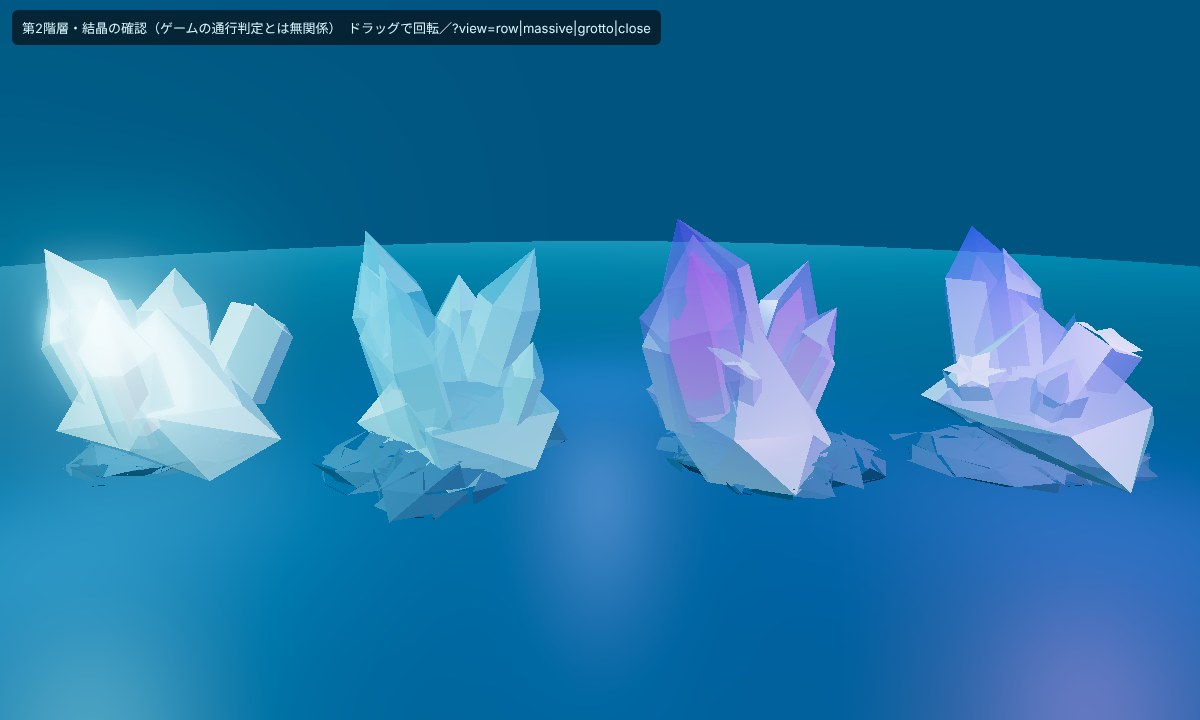
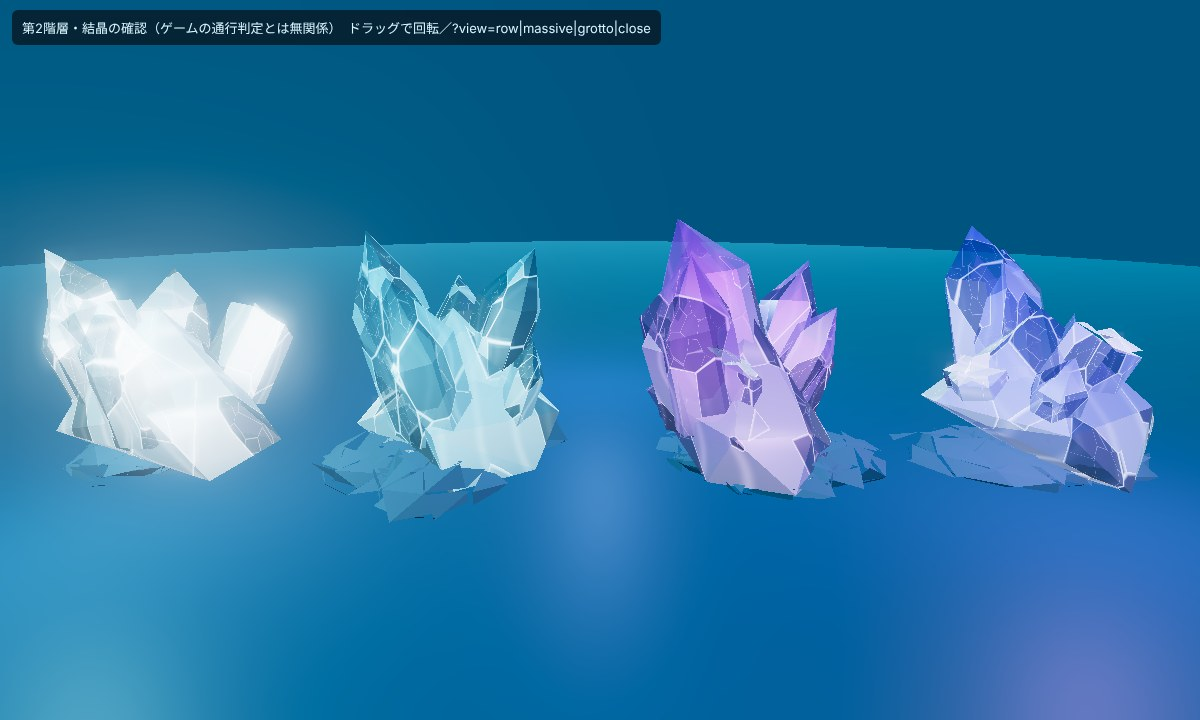
B2: 結晶の質感（うっすら発光・中心の輝き・ひびと内包物の模様）
- 結晶ごとの自分の座標（lpos）で3次元ボロノイの模様：所々の光のひび、暗い内包物の斑、長さ方向の淡い光の筋
- 視線に正面を向いた面の中ほどが輝く（透けた中心が光る）、全体はうっすら発光
- 根元から色を残し白飛びを抑える

Claude-Session: https://claude.ai/code/session_01B5gNCGmr7UqvVkWBnkLkde

Changed region(s): [[0.0, 0.2444, 0.4625, 0.825], [0.5242, 0.3056, 0.7092, 0.7028], [0.7708, 0.3361, 0.9867, 0.7028]]

diff --git a/field/b2-crystals.js b/field/b2-crystals.js
@@ -27,13 +27,19 @@ const rnd = (i) => { const x = Math.sin(i * 127.1 + 311.7) * 43758.5453; return 
 const V = (x, y, z) => new THREE.Vector3(x, y, z);
 
 // 三角形を質感ごとにためる入れ物
+// l には結晶ごとの「自分の座標」（模様を結晶に張り付けるため。動かしても模様がずれない）を入れる
 class Tris {
-  constructor() { this.b = { shell: [], cloudy: [], fracture: [], core: [] }; }
-  add(kind, a, b, c) { this.b[kind].push(a.x, a.y, a.z, b.x, b.y, b.z, c.x, c.y, c.z); }
+  constructor() { this.b = { shell: [], cloudy: [], fracture: [], core: [] }; this.l = { shell: [], cloudy: [], fracture: [], core: [] }; this.off = V(0, 0, 0); }
+  add(kind, a, b, c) {
+    this.b[kind].push(a.x, a.y, a.z, b.x, b.y, b.z, c.x, c.y, c.z);
+    const o = this.off; this.l[kind].push(a.x + o.x, a.y, a.z + o.z, b.x + o.x, b.y, b.z + o.z, c.x + o.x, c.y, c.z + o.z);
+  }
 }
-function toGeo(arr) {
+function toGeo(arr, larr) {
   if (!arr.length) return null;
-  const g = new THREE.BufferGeometry(); g.setAttribute('position', new THREE.Float32BufferAttribute(arr, 3)); g.computeVertexNormals(); return g;
+  const g = new THREE.BufferGeometry(); g.setAttribute('position', new THREE.Float32BufferAttribute(arr, 3));
+  g.setAttribute('lpos', new THREE.Float32BufferAttribute(larr, 3));
+  g.computeVertexNormals(); return g;
 }
 
 // 結晶1本（原点＝根元の中心、+Y、長さ1）。kind：'clear'（ほぼ透明）/'cloudy'（ほぼ濁り）/'broken'（先が折れて断面）
@@ -86,8 +92,8 @@ function paint(geo, pal, kind, yMin, yMax) {
     const t = THREE.MathUtils.clamp((p.getY(i) - yMin) / Math.max(1e-3, yMax - yMin), 0, 1);
     if (kind === 'core') { c.copy(a).lerp(b, 0.8 + t * 0.2).multiplyScalar(0.7 + t * 0.25); }
     else if (kind === 'fracture') { c.copy(a).lerp(b, Math.pow(t, 0.7) * 0.5).lerp(w, 0.35); }
-    else if (kind === 'cloudy') { c.copy(a).lerp(b, Math.pow(t, 0.9) * 0.75); }
-    else c.copy(a).lerp(b, Math.pow(t, 0.7));
+    else if (kind === 'cloudy') { c.copy(a).lerp(b, 0.3 + Math.pow(t, 0.9) * 0.55); }
+    else c.copy(a).lerp(b, 0.4 + Math.pow(t, 0.7) * 0.6);   // 根元から色を残す（白く飛ばない）
     col.set([c.r, c.g, c.b], i * 3);
   }
   geo.setAttribute('color', new THREE.BufferAttribute(col, 3));
@@ -110,6 +116,7 @@ function addMatrix(out, seed, radius) {
 
 // 結晶の大きな塊：ランダムな点の凸包＝平らな割れ面だらけの塊。面ごとに 濁り／透明／割れ口 を割り振る
 function addChunk(T, seed, R, H) {
+  T.off.set(rnd(seed + 5) * 40, 0, rnd(seed + 7) * 40);
   const pts = [];
   for (let i = 0; i < 22; i++) {
     const a = rnd(seed + i * 3) * 6.283, d = Math.sqrt(rnd(seed + i * 5)) * R, y = rnd(seed + i * 7) * H * (1 - d / R * 0.55);
@@ -124,7 +131,7 @@ function addChunk(T, seed, R, H) {
     const kind = n.y > 0.55 && x < 0.45 ? 'fracture' : x < 0.62 ? 'cloudy' : 'shell';
     T.add(kind, A, B, C);
   }
-  g.dispose();
+  g.dispose(); T.off.set(0, 0, 0);
 }
 
 const UP = V(0, 1, 0);
@@ -142,8 +149,8 @@ export function makeCrystalCluster(seed, paletteName, size = 'large') {
     const dir = V(Math.cos(yaw) * Math.sin(tilt), Math.cos(tilt), Math.sin(yaw) * Math.sin(tilt)).normalize();
     const q = new THREE.Quaternion().setFromUnitVectors(UP, dir).multiply(new THREE.Quaternion().setFromAxisAngle(UP, rnd(sd + 50) * 6.28));
     const m = new THREE.Matrix4().compose(base, q, V(len, len, len));
-    const t = new Tris(); quartzPoint(t, r, sd, kind || kindOf(sd), twin);
-    for (const k of Object.keys(t.b)) { const a = t.b[k]; for (let i = 0; i < a.length; i += 3) { const v = V(a[i], a[i + 1], a[i + 2]).applyMatrix4(m); T.b[k].push(v.x, v.y, v.z); } }
+    const t = new Tris(); t.off.set(rnd(sd + 61) * 40, 0, rnd(sd + 67) * 40); quartzPoint(t, r, sd, kind || kindOf(sd), twin);
+    for (const k of Object.keys(t.b)) { const a = t.b[k]; for (let i = 0; i < a.length; i += 3) { const v = V(a[i], a[i + 1], a[i + 2]).applyMatrix4(m); T.b[k].push(v.x, v.y, v.z); } T.l[k].push(...t.l[k]); }
   };
   if (size === 'massive') {
     // 塊：大きな割れた結晶の塊＋上に太く短い結晶をびっしり（塊感）
@@ -172,26 +179,63 @@ export function makeCrystalCluster(seed, paletteName, size = 'large') {
     }
   }
   // 色は群晶全体の高さに対して付ける（根元が乳白、上ほど濃い）
-  for (const k of Object.keys(T.b)) { const g = toGeo(T.b[k]); if (g) out[k].push(paint(g, pal, k, 0, size === 'massive' ? 0.9 : 1.0)); }
+  for (const k of Object.keys(T.b)) { const g = toGeo(T.b[k], T.l[k]); if (g) out[k].push(paint(g, pal, k, 0, size === 'massive' ? 0.9 : 1.0)); }
   return out;
 }
 
 // 素材（色は頂点の色で付けるので、全色共通の5つ）
 // shell：透明な面（半透明・強い映り込み・ふちが光る） cloudy：濁った面（乳白で不透明、内側からほのかに光る）
 // fracture：割れ口（白っぽく、ざらついた光り方） core：透明な結晶の芯（光源に関係なく光る） rock：母岩
-export function makeCrystalMaterials() {
-  const rim = (m, key, base, edge) => {
-    m.onBeforeCompile = (sh) => {
-      sh.fragmentShader = sh.fragmentShader.replace('#include emissivemap_fragment', `#include emissivemap_fragment
+// 結晶の模様（フラグメントシェーダー）：
+//   ・うっすら全体が光る（base）
+//   ・中心が輝く：視線に正面を向いた面ほど、また結晶の高さの中ほどほど明るい（透けた中心が光って見える）
+//   ・模様：結晶の自分の座標で作る3次元のボロノイ。境目は細い光のひび、一部の細胞は暗い内包物の斑、
+//           長さ方向に流れる淡い光の筋。ふちは結晶の色で光る
+const CRYSTAL_GLSL = `
+  vec3 _h3(vec3 p) { p = vec3(dot(p, vec3(127.1, 311.7, 74.7)), dot(p, vec3(269.5, 183.3, 246.1)), dot(p, vec3(113.5, 271.9, 124.6))); return fract(sin(p) * 43758.5453); }
+  // 戻り値：x=最も近い点までの距離, y=2番目との差（境目で0）, z=細胞ごとの乱数
+  vec3 _vor(vec3 p) {
+    vec3 ip = floor(p), fp = fract(p); float d1 = 8.0, d2 = 8.0; vec3 id = vec3(0.0);
+    for (int k = -1; k <= 1; k++) for (int j = -1; j <= 1; j++) for (int i = -1; i <= 1; i++) {
+      vec3 g = vec3(float(i), float(j), float(k)), o = _h3(ip + g), r = g + o - fp; float d = dot(r, r);
+      if (d < d1) { d2 = d1; d1 = d; id = ip + g; } else if (d < d2) d2 = d;
+    }
+    return vec3(sqrt(d1), sqrt(d2) - sqrt(d1), _h3(id).x);
+  }
+`;
+function crystalShader(m, key, o) {
+  m.onBeforeCompile = (sh) => {
+    sh.vertexShader = sh.vertexShader.replace('#include <common>', '#include <common>\nattribute vec3 lpos;\nvarying vec3 vL;')
+      .replace('#include <begin_vertex>', '#include <begin_vertex>\nvL = lpos;');
+    sh.fragmentShader = sh.fragmentShader.replace('#include <common>', '#include <common>\nvarying vec3 vL;\n' + CRYSTAL_GLSL)
+      .replace('#include <color_fragment>', `#include <color_fragment>
+        vec3 cv = _vor(vec3(vL.x * 4.2, vL.y * 2.1, vL.z * 4.2) + vec3(0.0, sin(vL.x * 3.0 + vL.z * 2.0) * 0.35, 0.0));   // ゆがめて不規則な大きめの斑に
+        vec3 cv2 = _vor(vec3(vL.x * 11.0, vL.y * 6.0, vL.z * 11.0));
+        float crack = ((1.0 - smoothstep(0.0, 0.04, cv.y)) * step(0.4, cv.z) + (1.0 - smoothstep(0.0, 0.025, cv2.y)) * 0.3 * step(0.7, cv.z));   // 光のひび（所々だけ。全体を網目にしない）
+        float dark = step(${o.darkCut.toFixed(2)}, cv.z) * (1.0 - crack);   // 暗い内包物の斑
+        float streak = pow(0.5 + 0.5 * sin(vL.x * 31.0 + vL.z * 23.0 + sin(vL.y * 9.0) * 1.5), 8.0);   // 長さ方向の光の筋
+        diffuseColor.rgb *= mix(${o.body.toFixed(2)}, ${(o.body * 0.25).toFixed(2)}, dark);`)
+      .replace('#include <emissivemap_fragment>', `#include <emissivemap_fragment>
         { float facing = clamp(abs(dot(normal, normalize(vViewPosition))), 0.0, 1.0);
-          totalEmissiveRadiance += vColor.rgb * (pow(1.0 - facing, 2.2) * ${edge.toFixed(2)} + ${base.toFixed(2)}); }`);
-    };
-    m.customProgramCacheKey = () => key;
-    return m;
+          float bell = sin(3.14159 * clamp(vL.y, 0.0, 1.0));
+          float center = pow(facing, 4.0) * (0.25 + 0.75 * bell);   // 正面を向いた面の中ほどが最も明るい
+          float glow = ${o.base.toFixed(2)} + center * ${o.center.toFixed(2)} + crack * ${o.crack.toFixed(2)} + streak * 0.18 + pow(1.0 - facing, 2.2) * ${o.rim.toFixed(2)};
+          totalEmissiveRadiance += vColor.rgb * glow * (1.0 - dark * 0.75) + vec3(1.0) * center * crack * ${o.white.toFixed(2)}; }`);
   };
-  const shell = rim(new THREE.MeshStandardMaterial({ color: 0xffffff, vertexColors: true, roughness: 0.04, metalness: 0.0, envMapIntensity: 2.2, transparent: true, opacity: 0.55, flatShading: true }), 'b2crystalShell', 0.18, 1.1);
-  const cloudy = rim(new THREE.MeshStandardMaterial({ color: 0xffffff, vertexColors: true, roughness: 0.32, metalness: 0.0, envMapIntensity: 1.1, flatShading: true }), 'b2crystalCloudy', 0.22, 0.55);
-  const fracture = rim(new THREE.MeshStandardMaterial({ color: 0xffffff, vertexColors: true, roughness: 0.62, metalness: 0.0, envMapIntensity: 0.8, flatShading: true }), 'b2crystalFracture', 0.12, 0.3);
+  m.customProgramCacheKey = () => key;
+  return m;
+}
+
+// 素材（色は頂点の色で付けるので、全色共通の5つ）
+// shell：透明な面（半透明・強い映り込み） cloudy：濁った面（不透明、内側から光る） fracture：割れ口（白っぽくざらつく）
+// core：透明な結晶の芯（光源に関係なく光る） rock：母岩
+export function makeCrystalMaterials() {
+  const shell = crystalShader(new THREE.MeshStandardMaterial({ color: 0xffffff, vertexColors: true, roughness: 0.05, metalness: 0.0, envMapIntensity: 1.2, transparent: true, opacity: 0.78, flatShading: true }), 'b2crystalShell2',
+    { base: 0.07, center: 1.7, crack: 0.75, rim: 0.3, white: 0.6, body: 0.45, darkCut: 0.6 });
+  const cloudy = crystalShader(new THREE.MeshStandardMaterial({ color: 0xffffff, vertexColors: true, roughness: 0.3, metalness: 0.0, envMapIntensity: 1.0, flatShading: true }), 'b2crystalCloudy2',
+    { base: 0.09, center: 1.0, crack: 0.6, rim: 0.22, white: 0.3, body: 0.5, darkCut: 0.55 });
+  const fracture = crystalShader(new THREE.MeshStandardMaterial({ color: 0xffffff, vertexColors: true, roughness: 0.62, metalness: 0.0, envMapIntensity: 0.8, flatShading: true }), 'b2crystalFracture2',
+    { base: 0.1, center: 0.35, crack: 0.9, rim: 0.15, white: 0.35, body: 0.75, darkCut: 0.85 });
   const core = new THREE.MeshBasicMaterial({ vertexColors: true });   // 不透明（先に描かれ、半透明の殻を通して見える）
   const rock = new THREE.MeshStandardMaterial({ color: 0x5a7690, roughness: 0.85, metalness: 0.0, flatShading: true });
   return { shell, cloudy, fracture, core, rock };
